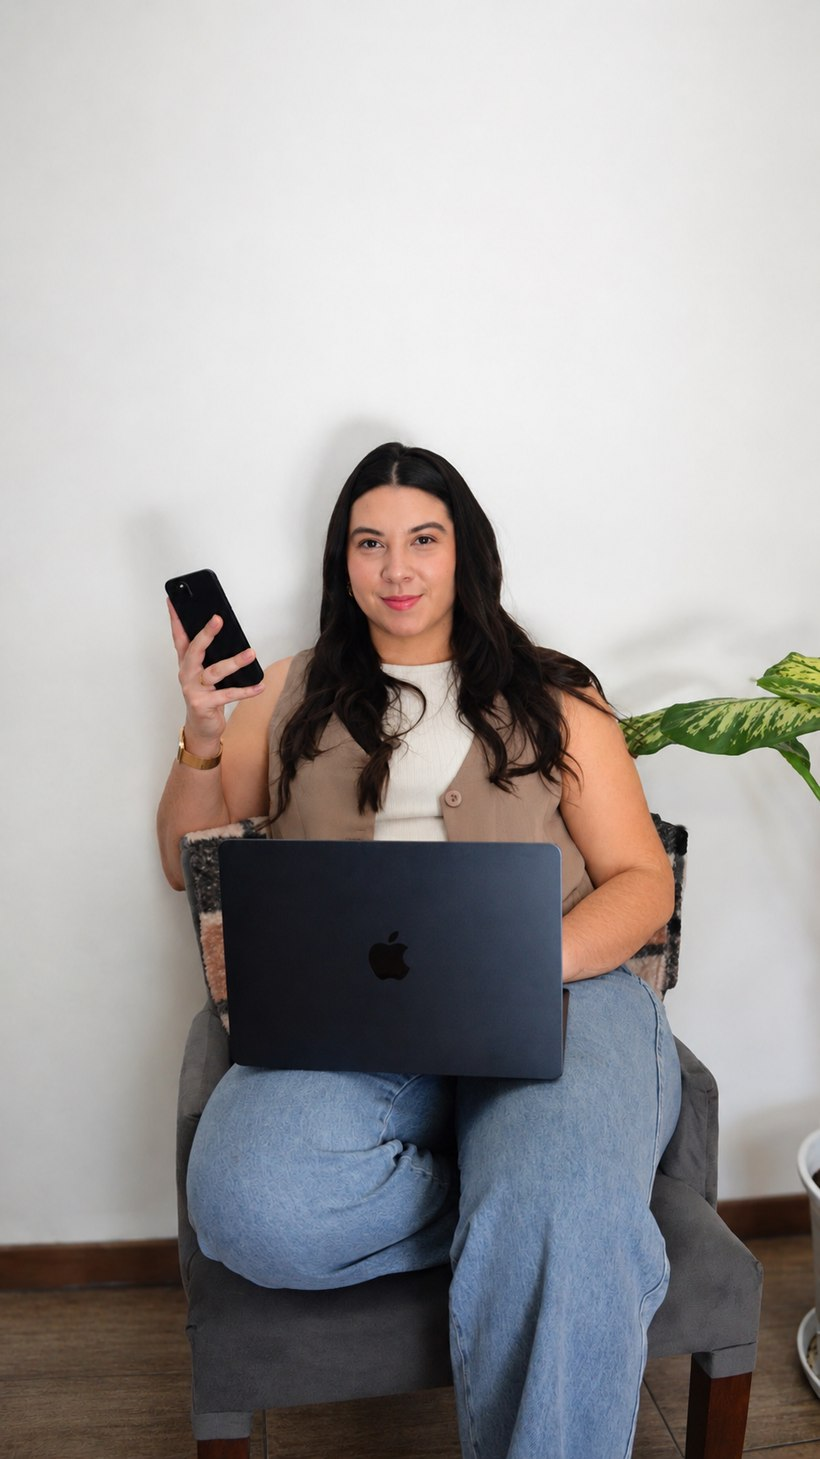
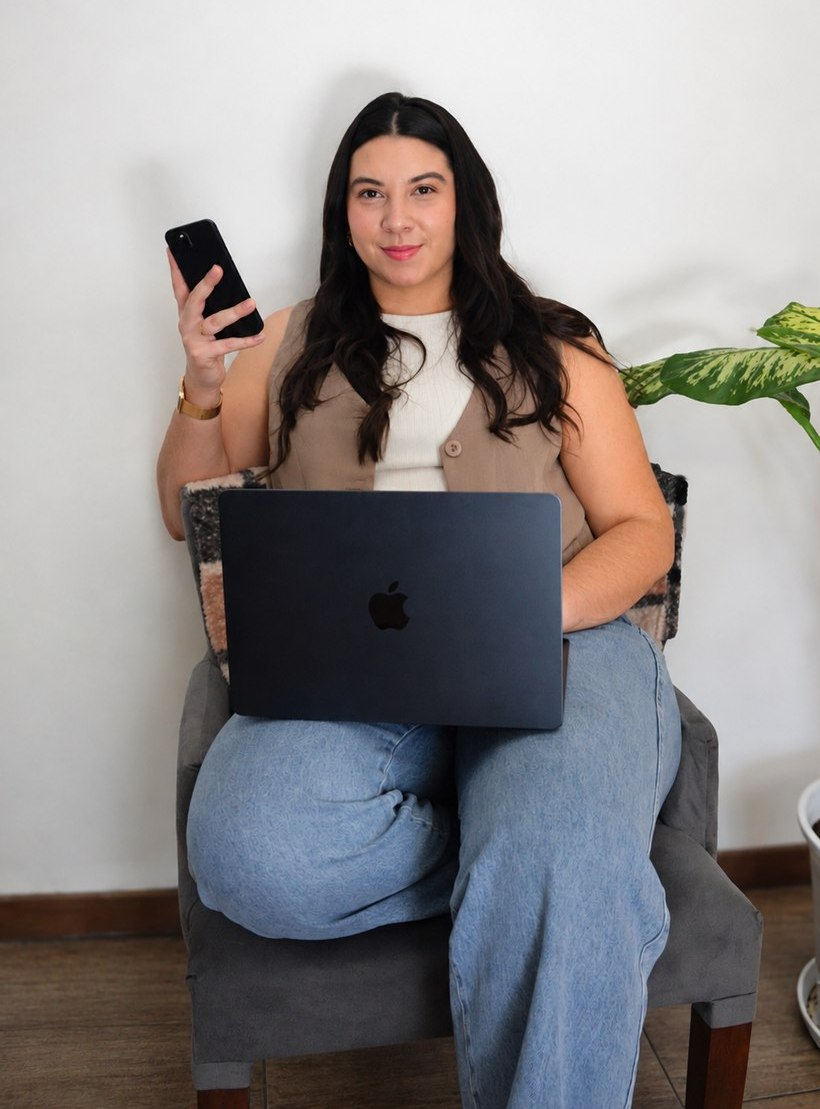
Ajusta la foto y el pin de la sección "Hola, soy luly" en Contacto
- Recorta la foto para sacar pared vacía arriba, ahora empareja
  mejor en alto con el bloque de texto
- Re-extrae el pin de perla en alta resolución y lo reposiciona con
  la geometría exacta del PDF (cruza la esquina redondeada de la foto)

diff --git a/contacto.html b/contacto.html
@@ -9,7 +9,7 @@
 <link rel="preconnect" href="https://fonts.googleapis.com">
 <link rel="preconnect" href="https://fonts.gstatic.com" crossorigin>
 <link href="https://fonts.googleapis.com/css2?family=Mulish:ital,wght@0,300..900;1,300..900&family=Tinos:ital,wght@0,400;0,700;1,400;1,700&display=swap" rel="stylesheet">
-<link rel="stylesheet" href="styles.css?v=e21f29f4">
+<link rel="stylesheet" href="styles.css?v=0317112e">
 </head>
 <body data-page="contacto">
 
@@ -62,8 +62,8 @@
       <p><b>by luly</b> es ese espacio donde comparto <b>mi proceso creativo, mi trabajo y todo lo que voy descubriendo</b> mientras construyo mi camino en el mundo del diseño.</p>
     </div>
     <div class="about__media reveal">
-      <img src="img/contacto-hero.jpg" alt="Luly, diseñadora gráfica de Studio Byluly, sentada con su notebook y celular" width="820" height="1459">
-      <img class="about__pin" src="img/contacto-pin.png" alt="" width="160" height="102">
+      <img src="img/contacto-hero.jpg" alt="Luly, diseñadora gráfica de Studio Byluly, sentada con su notebook y celular" width="820" height="1109">
+      <img class="about__pin" src="img/contacto-pin.png" alt="" width="260" height="544">
       <img class="about__sparkles" src="img/contacto-sparkles.png" alt="" width="180" height="198">
     </div>
   </div>

diff --git a/pages/contacto.html b/pages/contacto.html
@@ -11,8 +11,8 @@
       <p><b>by luly</b> es ese espacio donde comparto <b>mi proceso creativo, mi trabajo y todo lo que voy descubriendo</b> mientras construyo mi camino en el mundo del diseño.</p>
     </div>
     <div class="about__media reveal">
-      <img src="img/contacto-hero.jpg" alt="Luly, diseñadora gráfica de Studio Byluly, sentada con su notebook y celular" width="820" height="1459">
-      <img class="about__pin" src="img/contacto-pin.png" alt="" width="160" height="102">
+      <img src="img/contacto-hero.jpg" alt="Luly, diseñadora gráfica de Studio Byluly, sentada con su notebook y celular" width="820" height="1109">
+      <img class="about__pin" src="img/contacto-pin.png" alt="" width="260" height="544">
       <img class="about__sparkles" src="img/contacto-sparkles.png" alt="" width="180" height="198">
     </div>
   </div>

diff --git a/styles.css b/styles.css
@@ -527,7 +527,7 @@ a{ color:inherit; }
 .about__text p b{ font-weight:700; }
 .about__media{ position:relative; }
 .about__media img:first-child{ border-radius:24px; width:100%; height:auto; box-shadow:0 18px 40px rgba(84,3,20,.16); }
-.about__pin{ position:absolute; top:-6%; right:6%; width:16%; height:auto; z-index:2; }
+.about__pin{ position:absolute; top:-6.5%; right:-1.2%; width:11%; height:auto; z-index:2; }
 .about__sparkles{ position:absolute; bottom:-5%; left:-6%; width:18%; height:auto; z-index:2; }
 
 /* ============================================================

diff --git a/branding.html b/branding.html
@@ -9,7 +9,7 @@
 <link rel="preconnect" href="https://fonts.googleapis.com">
 <link rel="preconnect" href="https://fonts.gstatic.com" crossorigin>
 <link href="https://fonts.googleapis.com/css2?family=Mulish:ital,wght@0,300..900;1,300..900&family=Tinos:ital,wght@0,400;0,700;1,400;1,700&display=swap" rel="stylesheet">
-<link rel="stylesheet" href="styles.css?v=e21f29f4">
+<link rel="stylesheet" href="styles.css?v=0317112e">
 </head>
 <body data-page="branding">
 

diff --git a/carrito.html b/carrito.html
@@ -9,7 +9,7 @@
 <link rel="preconnect" href="https://fonts.googleapis.com">
 <link rel="preconnect" href="https://fonts.gstatic.com" crossorigin>
 <link href="https://fonts.googleapis.com/css2?family=Mulish:ital,wght@0,300..900;1,300..900&family=Tinos:ital,wght@0,400;0,700;1,400;1,700&display=swap" rel="stylesheet">
-<link rel="stylesheet" href="styles.css?v=e21f29f4">
+<link rel="stylesheet" href="styles.css?v=0317112e">
 </head>
 <body data-page="tienda">
 

diff --git a/cositas-gratis.html b/cositas-gratis.html
@@ -9,7 +9,7 @@
 <link rel="preconnect" href="https://fonts.googleapis.com">
 <link rel="preconnect" href="https://fonts.gstatic.com" crossorigin>
 <link href="https://fonts.googleapis.com/css2?family=Mulish:ital,wght@0,300..900;1,300..900&family=Tinos:ital,wght@0,400;0,700;1,400;1,700&display=swap" rel="stylesheet">
-<link rel="stylesheet" href="styles.css?v=e21f29f4">
+<link rel="stylesheet" href="styles.css?v=0317112e">
 </head>
 <body data-page="gratis">
 

diff --git a/tienda.html b/tienda.html
@@ -9,7 +9,7 @@
 <link rel="preconnect" href="https://fonts.googleapis.com">
 <link rel="preconnect" href="https://fonts.gstatic.com" crossorigin>
 <link href="https://fonts.googleapis.com/css2?family=Mulish:ital,wght@0,300..900;1,300..900&family=Tinos:ital,wght@0,400;0,700;1,400;1,700&display=swap" rel="stylesheet">
-<link rel="stylesheet" href="styles.css?v=e21f29f4">
+<link rel="stylesheet" href="styles.css?v=0317112e">
 </head>
 <body data-page="tienda">
 

diff --git a/portafolio.html b/portafolio.html
@@ -9,7 +9,7 @@
 <link rel="preconnect" href="https://fonts.googleapis.com">
 <link rel="preconnect" href="https://fonts.gstatic.com" crossorigin>
 <link href="https://fonts.googleapis.com/css2?family=Mulish:ital,wght@0,300..900;1,300..900&family=Tinos:ital,wght@0,400;0,700;1,400;1,700&display=swap" rel="stylesheet">
-<link rel="stylesheet" href="styles.css?v=e21f29f4">
+<link rel="stylesheet" href="styles.css?v=0317112e">
 </head>
 <body data-page="porta">
 

diff --git a/redes-sociales.html b/redes-sociales.html
@@ -9,7 +9,7 @@
 <link rel="preconnect" href="https://fonts.googleapis.com">
 <link rel="preconnect" href="https://fonts.gstatic.com" crossorigin>
 <link href="https://fonts.googleapis.com/css2?family=Mulish:ital,wght@0,300..900;1,300..900&family=Tinos:ital,wght@0,400;0,700;1,400;1,700&display=swap" rel="stylesheet">
-<link rel="stylesheet" href="styles.css?v=e21f29f4">
+<link rel="stylesheet" href="styles.css?v=0317112e">
 </head>
 <body data-page="redes">
 

diff --git a/index.html b/index.html
@@ -9,7 +9,7 @@
 <link rel="preconnect" href="https://fonts.googleapis.com">
 <link rel="preconnect" href="https://fonts.gstatic.com" crossorigin>
 <link href="https://fonts.googleapis.com/css2?family=Mulish:ital,wght@0,300..900;1,300..900&family=Tinos:ital,wght@0,400;0,700;1,400;1,700&display=swap" rel="stylesheet">
-<link rel="stylesheet" href="styles.css?v=e21f29f4">
+<link rel="stylesheet" href="styles.css?v=0317112e">
 </head>
 <body data-page="home">
 
